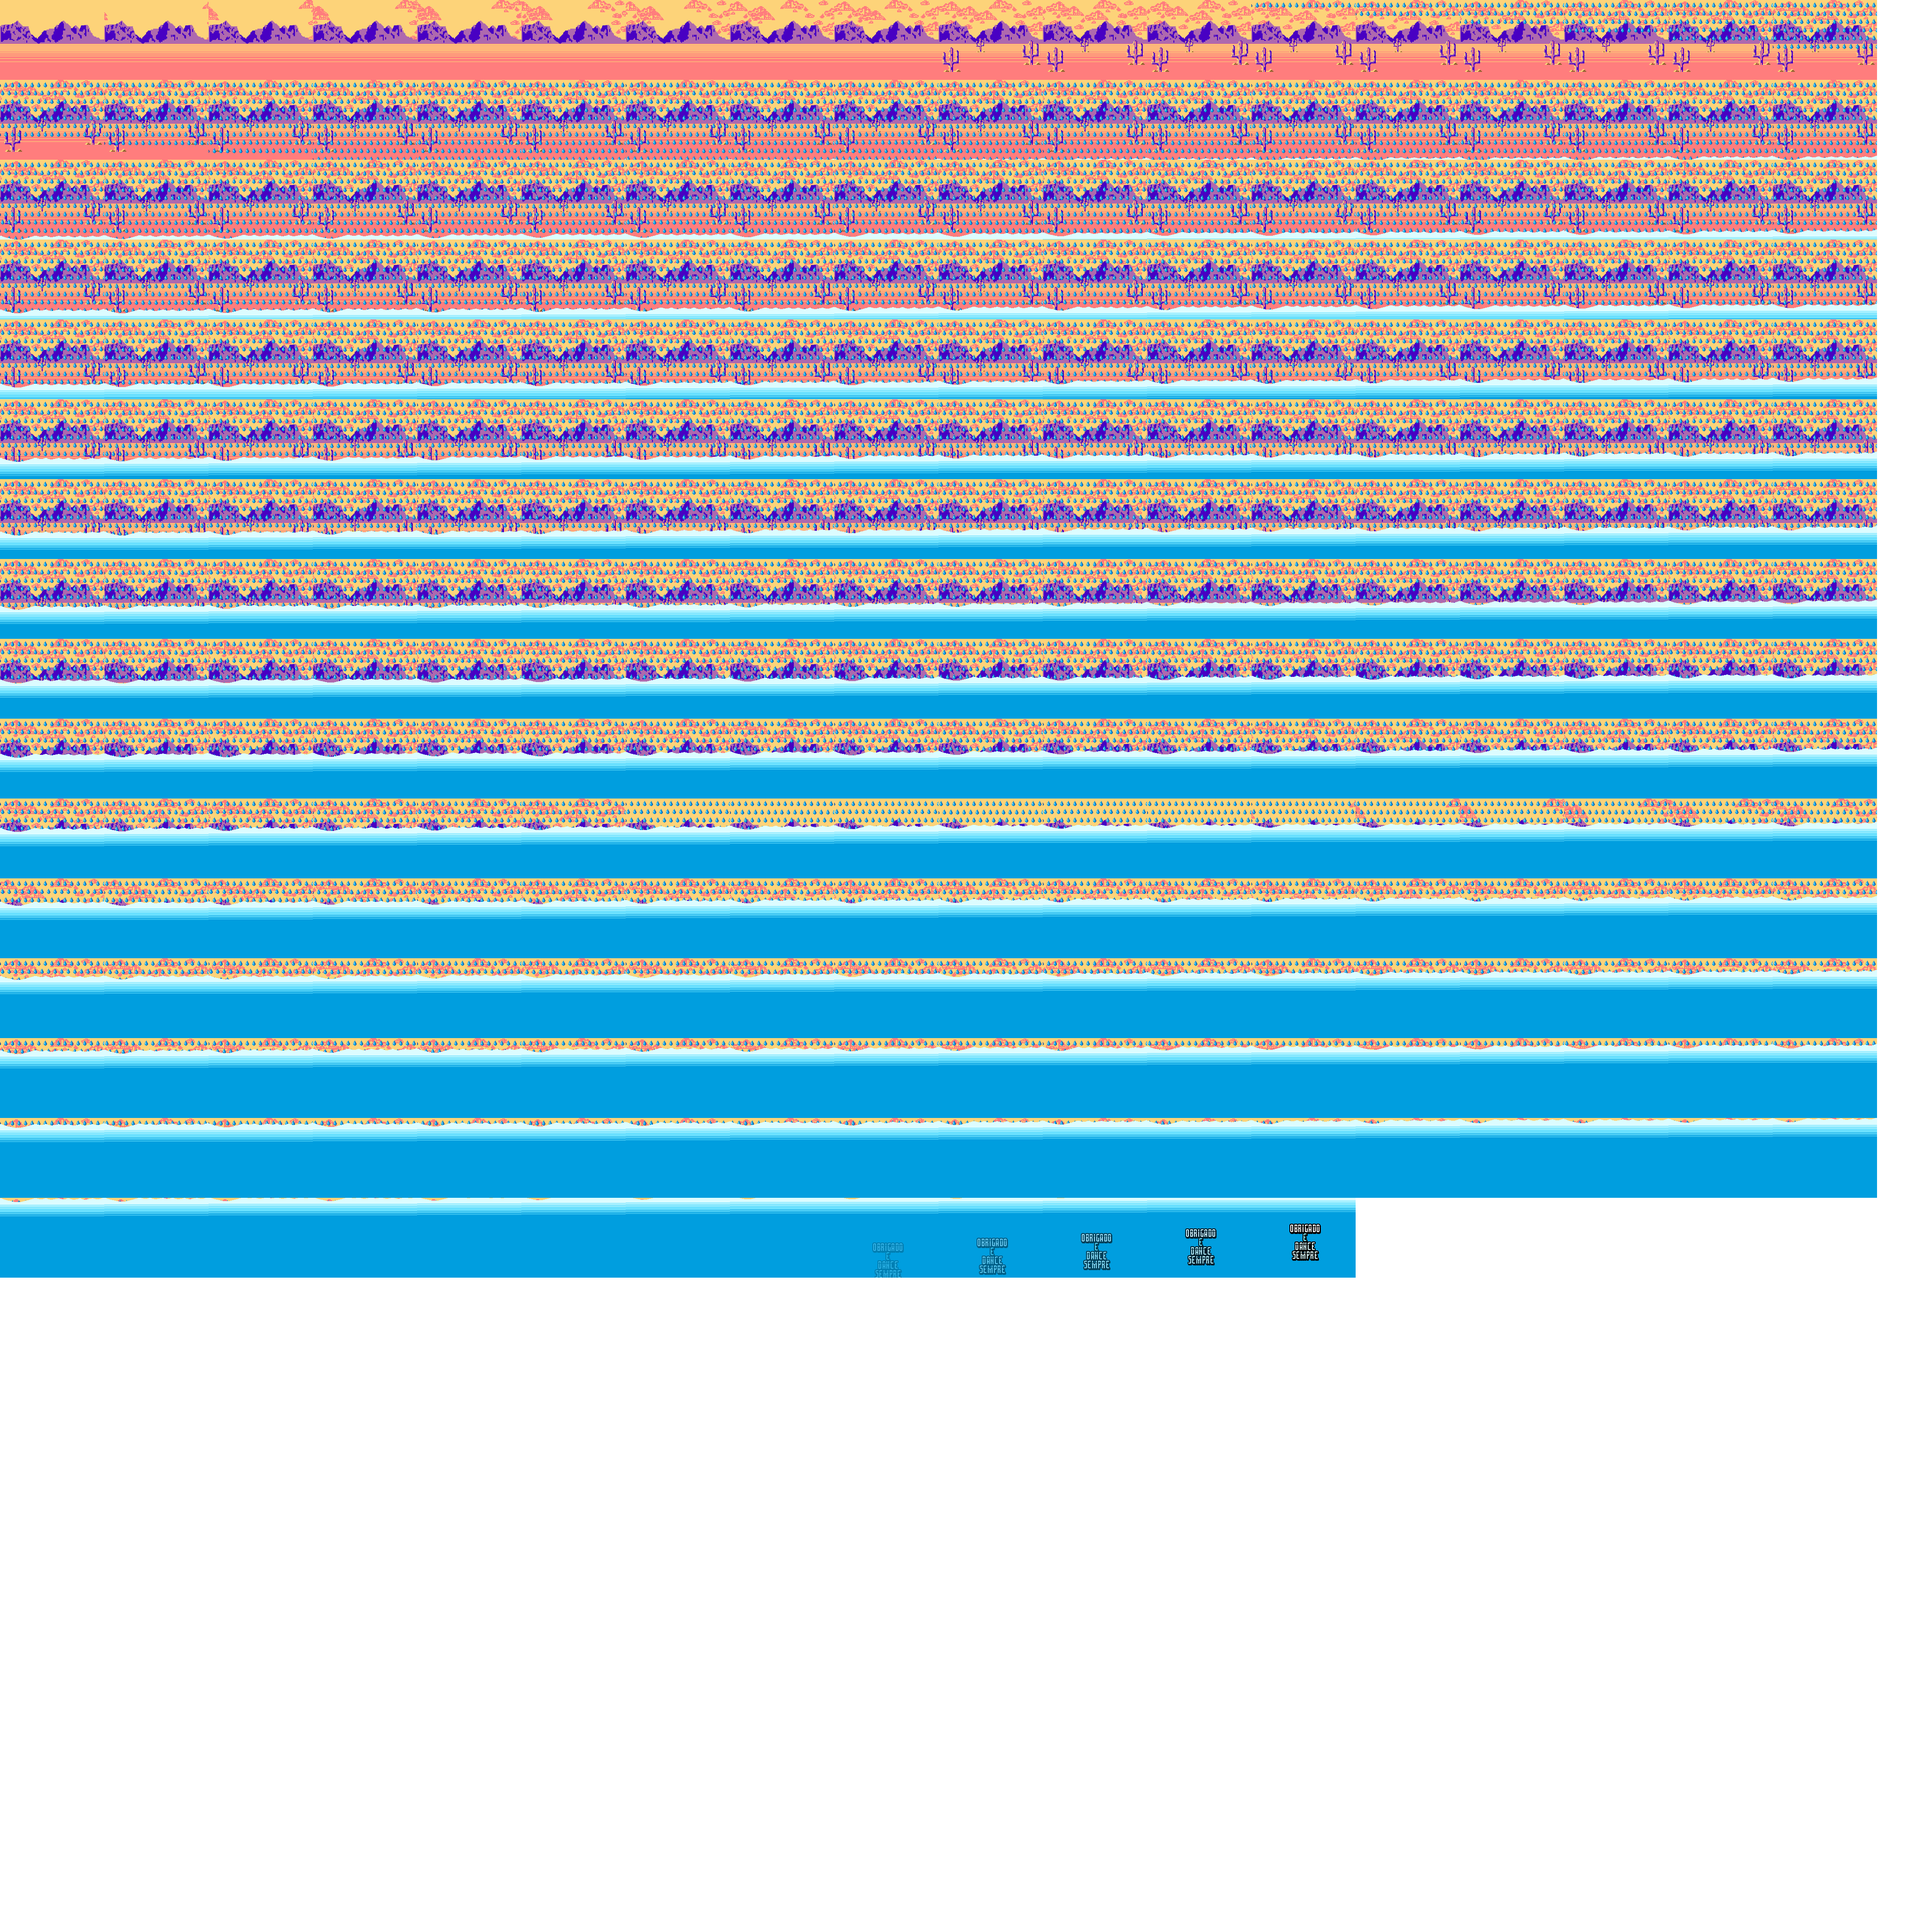
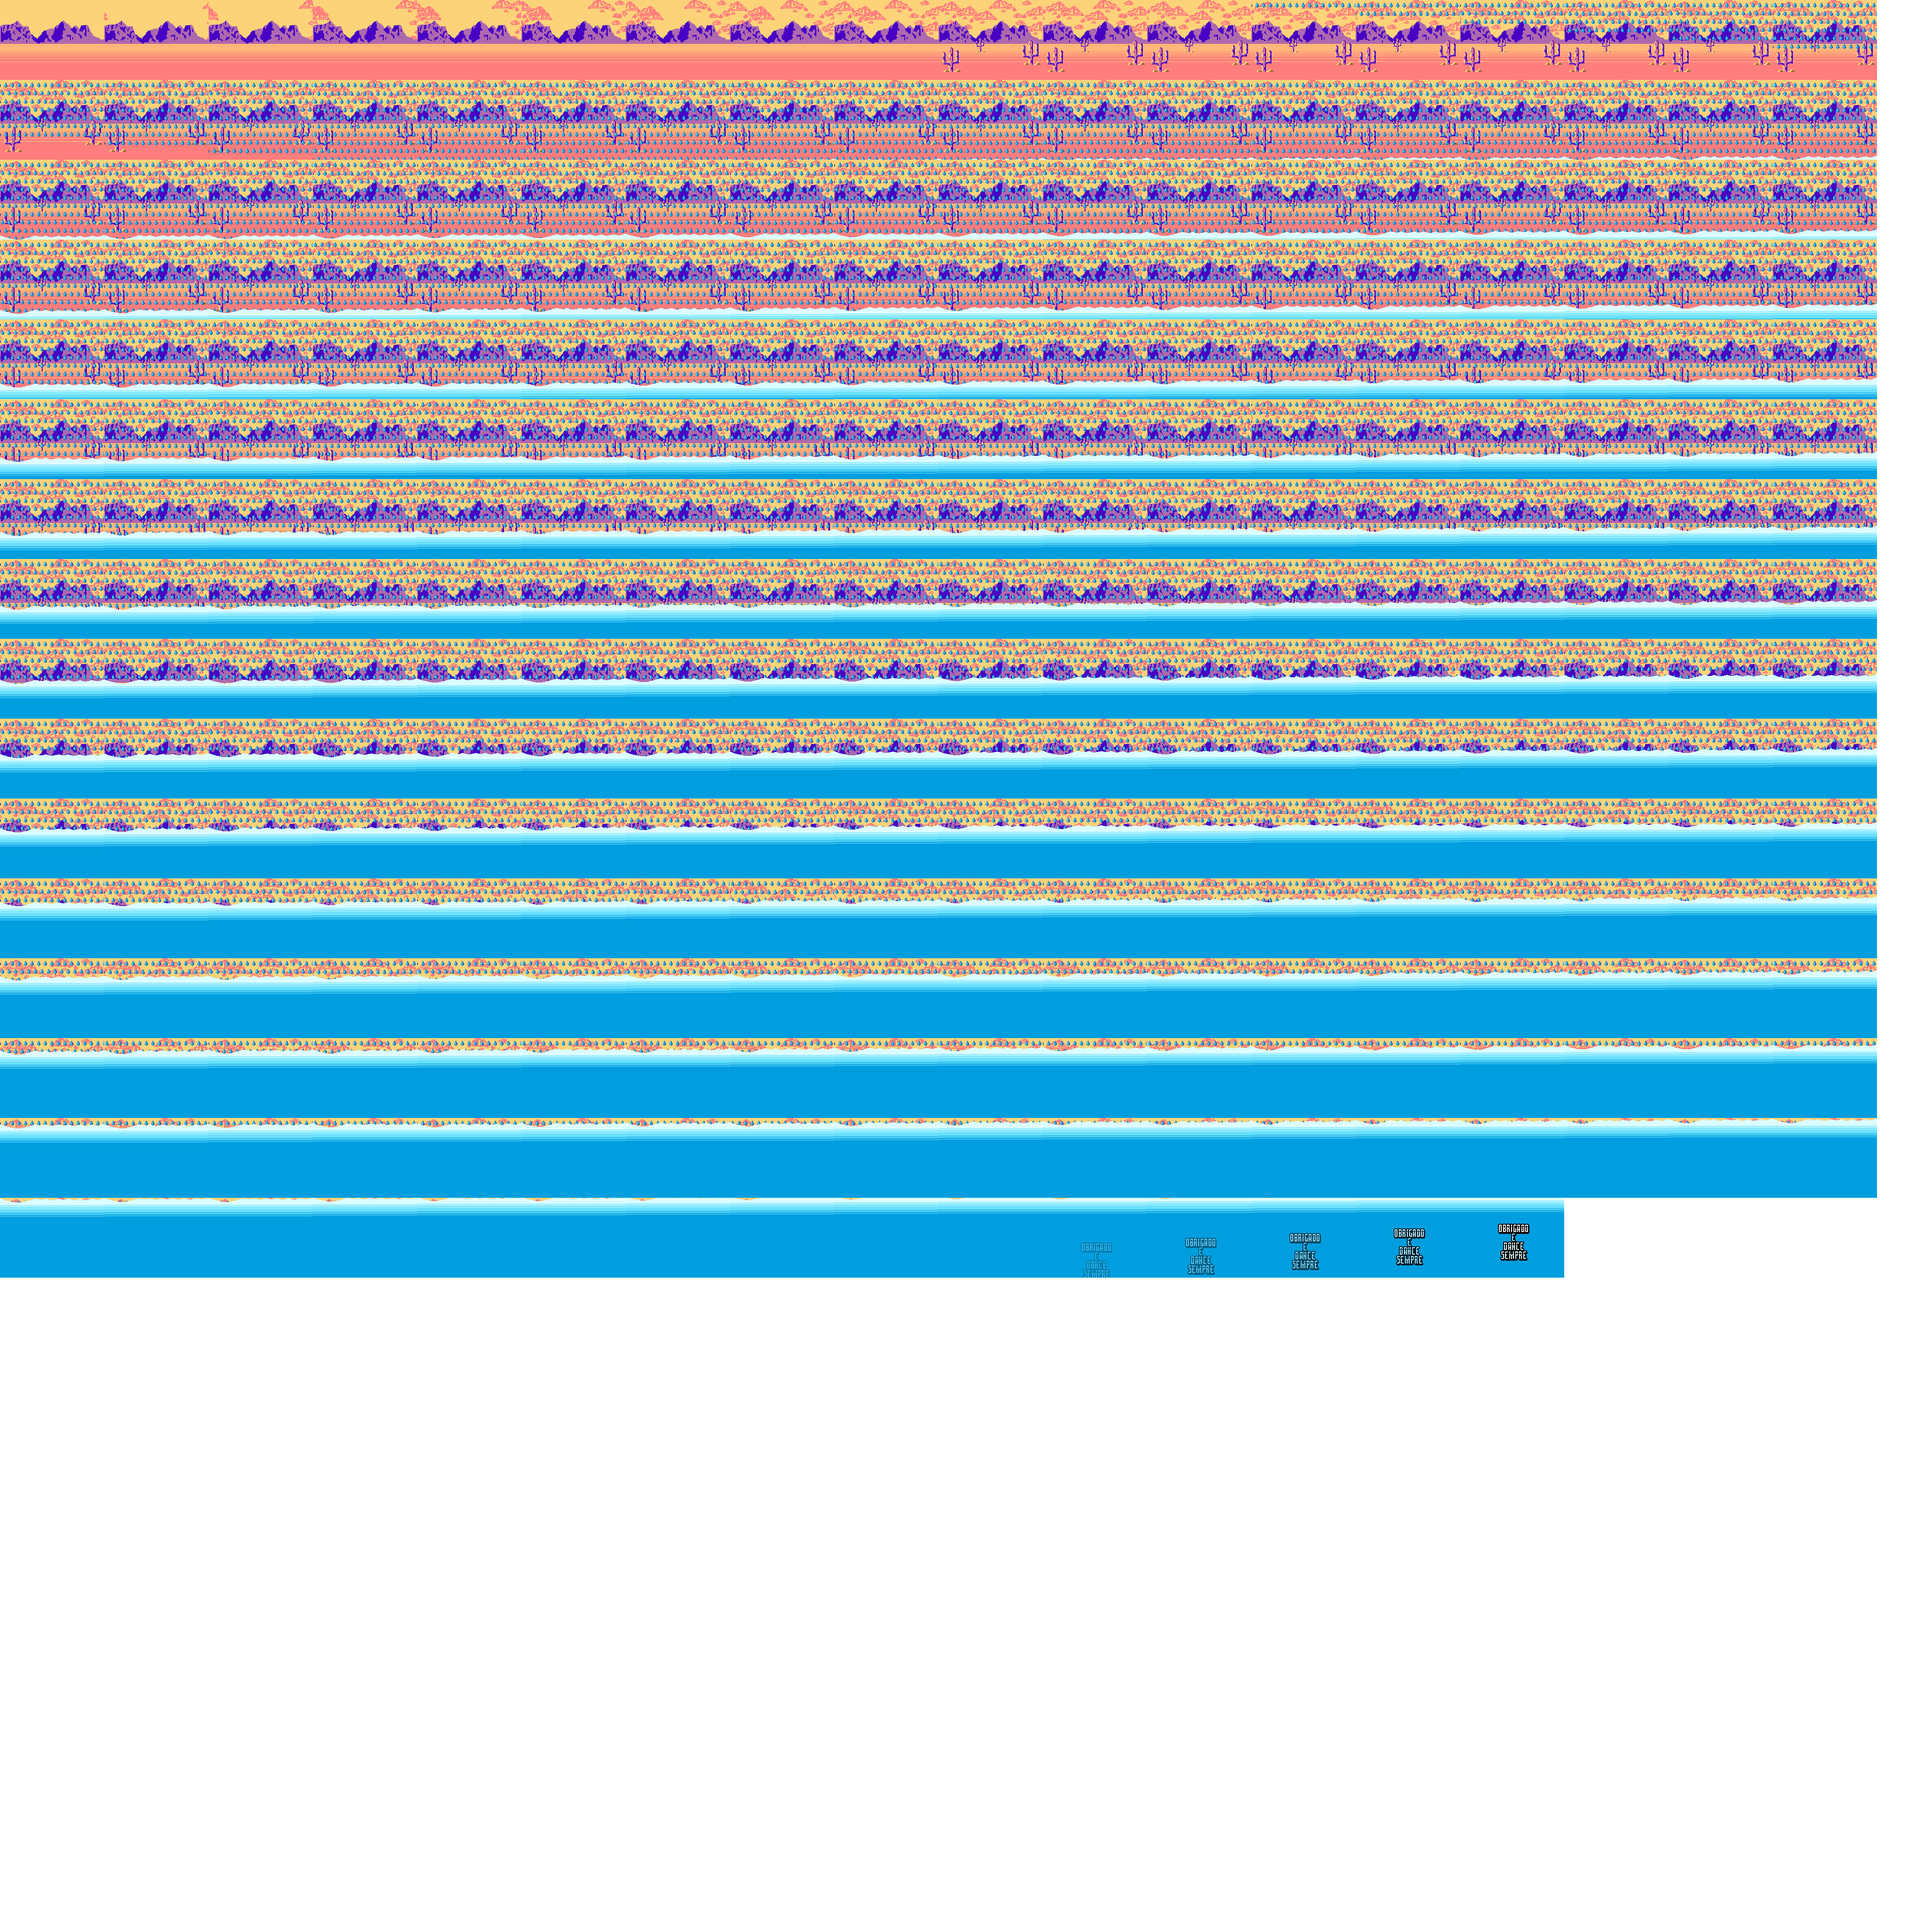
QA
qa animacoes

diff --git a/FazerChover/main.cpp b/FazerChover/main.cpp
@@ -445,8 +445,6 @@ int main(int argc, char **argv)
     cenario.addFrame(sf::IntRect(2442,0,222,170));
     cenario.addFrame(sf::IntRect(2220,0,222,170));
     cenario.addFrame(sf::IntRect(2442,0,222,170));
-    cenario.addFrame(sf::IntRect(2220,0,222,170));
-    cenario.addFrame(sf::IntRect(2220,0,222,170));
     cenario.addFrame(sf::IntRect(2664,0,222,170));
     cenario.addFrame(sf::IntRect(2886,0,222,170));
     cenario.addFrame(sf::IntRect(3108,0,222,170));
@@ -713,16 +711,19 @@ int main(int argc, char **argv)
     cenario.addFrame(sf::IntRect(666,2550,222,170));
     cenario.addFrame(sf::IntRect(888,2550,222,170));
     cenario.addFrame(sf::IntRect(1110,2550,222,170));
-    cenario.addFrame(sf::IntRect(1110,2550,222,170));
     cenario.addFrame(sf::IntRect(1332,2550,222,170));
+    cenario.addFrame(sf::IntRect(1554,2550,222,170));
     cenario.addFrame(sf::IntRect(1554,2550,222,170));
     cenario.addFrame(sf::IntRect(1776,2550,222,170));
     cenario.addFrame(sf::IntRect(1998,2550,222,170));
     cenario.addFrame(sf::IntRect(2220,2550,222,170));
     cenario.addFrame(sf::IntRect(2442,2550,222,170));
     cenario.addFrame(sf::IntRect(2664,2550,222,170));
-    cenario.addFrame(sf::IntRect(2664,2550,222,170));
-    cenario.addFrame(sf::IntRect(2664,2550,222,170));
+    cenario.addFrame(sf::IntRect(2886,2550,222,170));
+    cenario.addFrame(sf::IntRect(3108,2550,222,170));
+    cenario.addFrame(sf::IntRect(3108,2550,222,170));
+    cenario.addFrame(sf::IntRect(3108,2550,222,170));
+
 
     AnimatedSprite cenarioAnimatedSprite = AnimatedSprite(sf::seconds(FPS), true, false);
     cenarioAnimatedSprite.setPosition(maskPosition);
@@ -1044,8 +1045,10 @@ int main(int argc, char **argv)
                         auto since_epoch = time.time_since_epoch();
                         auto millis = std::chrono::duration_cast<std::chrono::milliseconds>(since_epoch);
                         long now = millis.count();
-                        file << filename << now << suffix;
+                        file << "/Users/luizaprata/Desktop/snapshot/"<< filename << now << suffix;
                         cv::imwrite(file.str(), rgbMat);
+                        
+                        std::cout << file.str() << std::endl;
                         
                     }
                     
